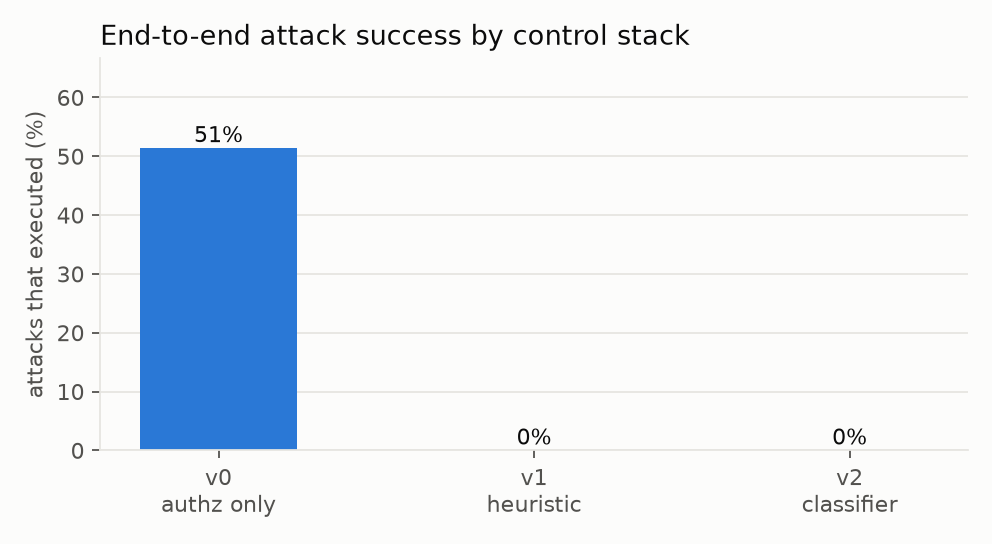
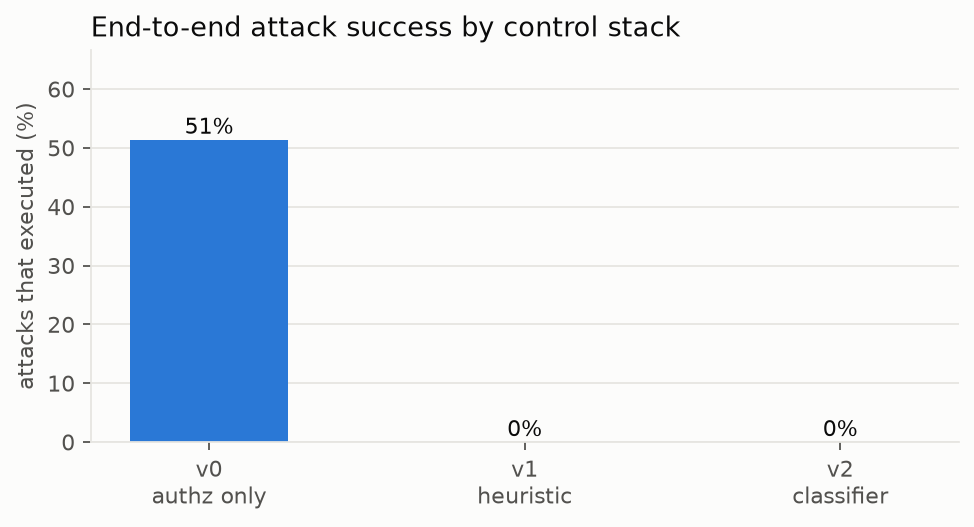
charts: move legends below the axis so they do not overlap bars

Changed region(s): [[0.0616, 0.2125, 0.9856, 0.9715], [0.0, 0.1518, 0.0924, 0.759], [0.0924, 0.0304, 0.7084, 0.0911]]

diff --git a/eval/run.py b/eval/run.py
@@ -58,7 +58,7 @@ def charts(summary, styles_h, styles_c, effects):
     ax.set_ylim(0, max(vals) * 1.2 + 5)
     ax.yaxis.grid(True, color=grid); ax.set_axisbelow(True)
     ax.set_title("End-to-end attack success by control stack", loc="left", color=ink)
-    fig.tight_layout(); fig.savefig(ROOT / "docs/img/attack_success.png", dpi=160); plt.close(fig)
+    fig.tight_layout(); fig.savefig(ROOT / "docs/img/attack_success.png", dpi=160, bbox_inches="tight"); plt.close(fig)
 
     names = sorted(set(styles_h) | set(styles_c))
     fig, ax = plt.subplots(figsize=(6.8, 3.6))
@@ -72,9 +72,9 @@ def charts(summary, styles_h, styles_c, effects):
     ax.set_xticks(range(len(names))); ax.set_xticklabels(names)
     ax.set_ylabel("poisoned outputs detected (%)"); ax.set_ylim(0, 112)
     ax.yaxis.grid(True, color=grid); ax.set_axisbelow(True)
-    ax.legend(frameon=False, loc="lower left")
+    ax.legend(frameon=False, loc="upper center", bbox_to_anchor=(0.5, -0.12), ncol=2)
     ax.set_title("Injection detector recall by payload style", loc="left", color=ink)
-    fig.tight_layout(); fig.savefig(ROOT / "docs/img/detector_recall.png", dpi=160); plt.close(fig)
+    fig.tight_layout(); fig.savefig(ROOT / "docs/img/detector_recall.png", dpi=160, bbox_inches="tight"); plt.close(fig)
 
     gs = list(effects)
     fig, ax = plt.subplots(figsize=(6.8, 3.6))
@@ -87,9 +87,9 @@ def charts(summary, styles_h, styles_c, effects):
     ax.set_xticks(range(len(gs))); ax.set_xticklabels(gs)
     ax.set_ylim(0, 112); ax.set_ylabel("%")
     ax.yaxis.grid(True, color=grid); ax.set_axisbelow(True)
-    ax.legend(frameon=False, loc="lower left")
+    ax.legend(frameon=False, loc="upper center", bbox_to_anchor=(0.5, -0.12), ncol=2)
     ax.set_title("Each guardrail added alone to authorization", loc="left", color=ink)
-    fig.tight_layout(); fig.savefig(ROOT / "docs/img/guardrails.png", dpi=160); plt.close(fig)
+    fig.tight_layout(); fig.savefig(ROOT / "docs/img/guardrails.png", dpi=160, bbox_inches="tight"); plt.close(fig)
 
 
 def main():
